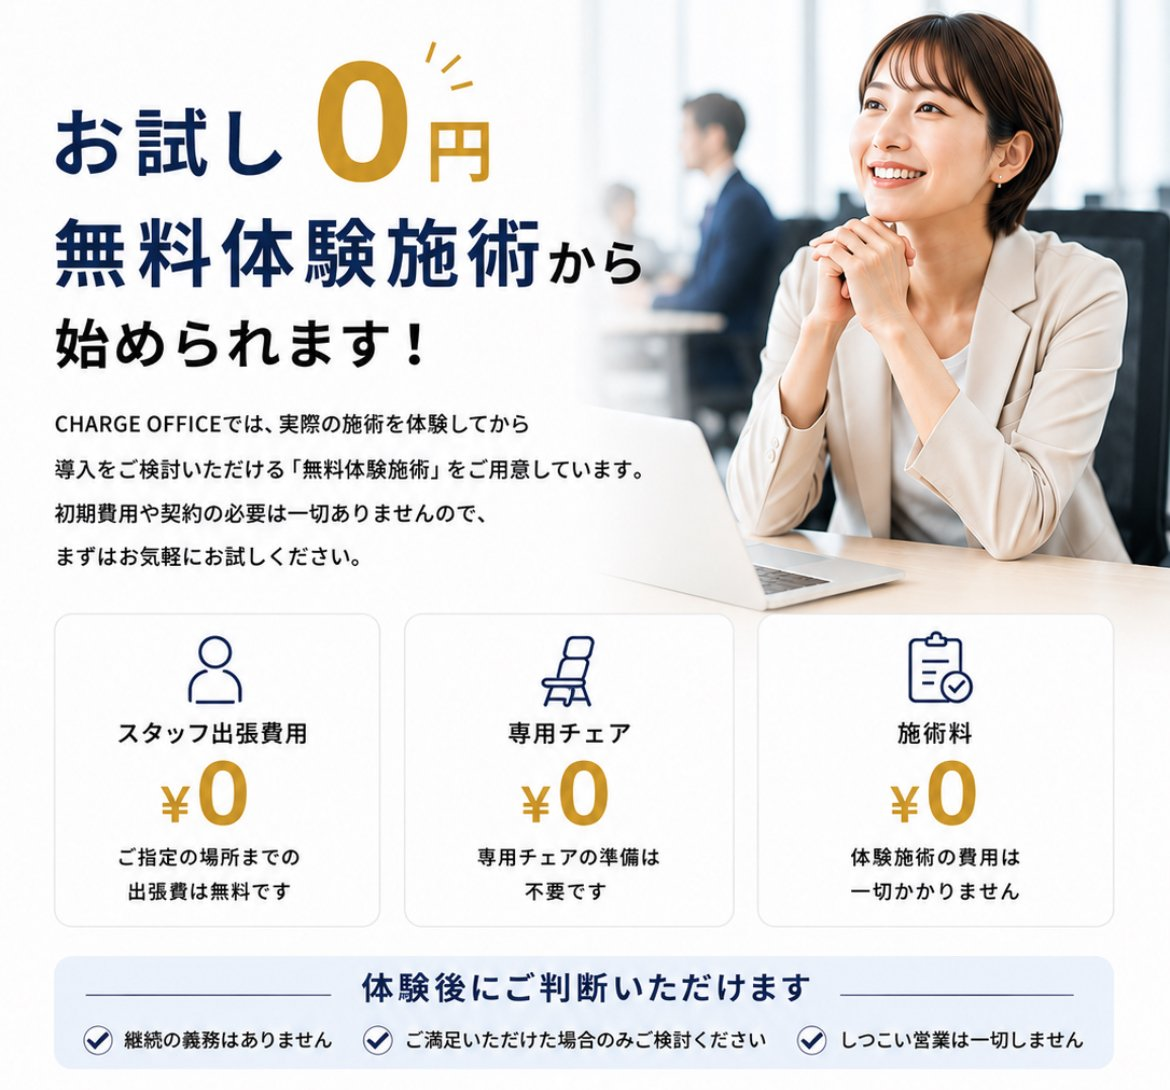
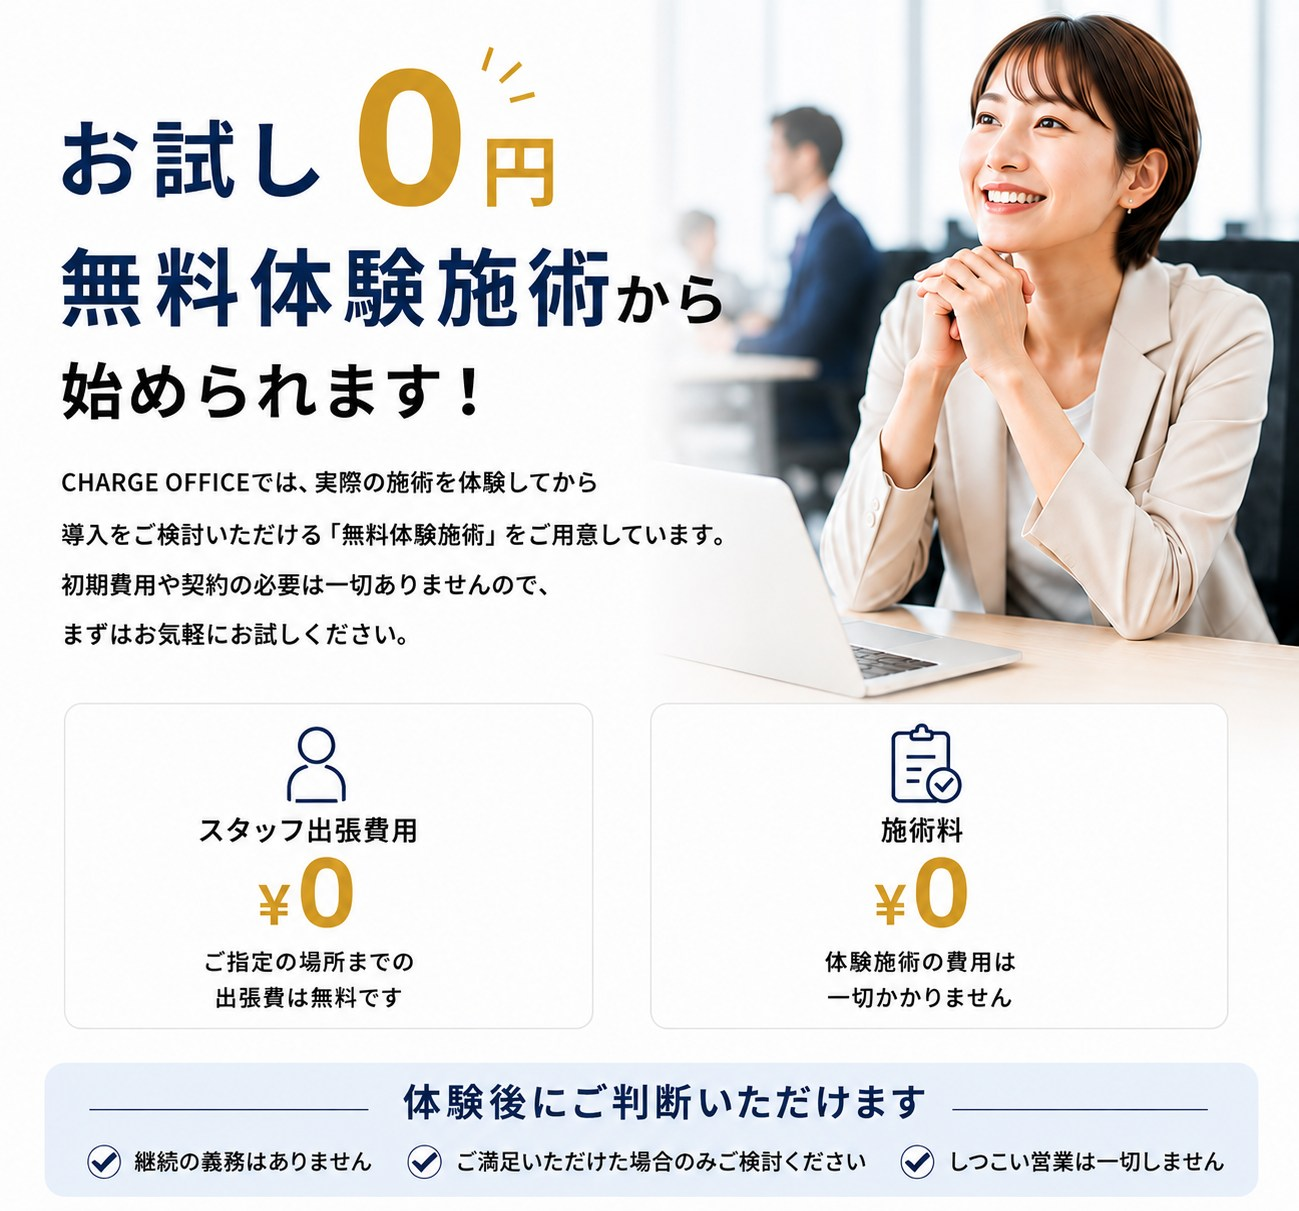
CHARGE OFFICE LP: 画像差し替えとセクション整理を反映
料金・サポート削除、FAQ整理、導入事例を玉子屋に更新、ギャラリー・訴求画像を差し替え。

diff --git a/.company/jutaku/clients/charge-office-lp/index.html b/.company/jutaku/clients/charge-office-lp/index.html
@@ -239,8 +239,8 @@
         <div class="gallery-grid">
           <img class="gallery-photo" src="images/gallery-1.jpg" alt="頭部の施術を受ける様子" width="1537" height="1023" loading="lazy">
           <img class="gallery-photo" src="images/gallery-2.jpg" alt="首・肩の施術を受ける様子" width="1537" height="1023" loading="lazy">
-          <img class="gallery-photo gallery-photo--foot" src="images/gallery-3.jpg" alt="ふくらはぎ・足裏の施術を受ける様子" width="1200" height="800" loading="lazy">
-          <img class="gallery-photo" src="images/gallery-4.jpg" alt="施術前のカウンセリングの様子" width="1537" height="1023" loading="lazy">
+          <img class="gallery-photo gallery-photo--foot" src="images/gallery-3.jpg?v=20260805" alt="ふくらはぎ・足裏の施術を受ける様子" width="1536" height="1024" loading="lazy">
+          <img class="gallery-photo" src="images/gallery-4.jpg?v=20260805b" alt="施術前のカウンセリングの様子" width="1280" height="900" loading="lazy">
         </div>
       </div>
     </section>
@@ -295,136 +295,7 @@
     </section>
 
     <section class="section bg-white trial-promo" aria-label="お試し0円 無料体験施術から始められます">
-      <img class="trial-promo__image" src="images/trial-promo.jpg" alt="お試し0円 無料体験施術から始められます。CHARGE OFFICEでは実際の施術を体験してから導入をご検討いただける無料体験施術をご用意しています。初期費用や契約の必要は一切ありません。スタッフ出張費用0円、専用チェア0円、施術料0円。体験後にご判断いただけます：継続の義務はありません、ご満足いただけた場合のみ検討ください、しつこい営業は一切しません。" width="1170" height="1090">
-    </section>
-
-    <section class="section bg-alt" id="pricing" aria-labelledby="pricing-title">
-      <div class="container">
-        <p class="section-label">PRICING</p>
-        <h2 class="section-title" id="pricing-title">料金</h2>
-        <p class="section-lead">プランは複数用意せず、単価×時間の従量制です。担当者が社内で説明しやすいよう、総額例も併記しています。</p>
-
-        <div class="price-main">
-          <span class="price-main__badge">基本プラン</span>
-          <div class="price-main__rate">
-            <span class="price-main__unit">1時間</span>
-            <span class="price-main__amount">11,000円</span>
-            <span class="price-main__tax">（税込）</span>
-          </div>
-          <p class="price-main__min">＼ 最低3時間からご契約いただけます ／</p>
-
-          <div class="price-feats">
-            <div class="price-feat">
-              <div class="price-feat__icon" aria-hidden="true">
-                <svg width="28" height="28" viewBox="0 0 24 24" fill="none" stroke="currentColor" stroke-width="1.6" stroke-linecap="round" stroke-linejoin="round">
-                  <circle cx="12" cy="8" r="3.5"/>
-                  <path d="M5 19c0-3.5 3-6 7-6s7 2.5 7 6"/>
-                </svg>
-              </div>
-              <div class="price-feat__body">
-                <p class="price-feat__top">1時間で</p>
-                <p class="price-feat__mid"><strong>5名</strong>施術可能</p>
-                <p class="price-feat__bot">おひとり約10分の施術時間</p>
-              </div>
-            </div>
-            <div class="price-feat">
-              <div class="price-feat__icon" aria-hidden="true">
-                <svg width="28" height="28" viewBox="0 0 24 24" fill="none" stroke="currentColor" stroke-width="1.6" stroke-linecap="round" stroke-linejoin="round">
-                  <rect x="4" y="5" width="16" height="16" rx="2"/>
-                  <path d="M8 3v4M16 3v4M4 11h16"/>
-                </svg>
-              </div>
-              <div class="price-feat__body">
-                <p class="price-feat__top">3時間で</p>
-                <p class="price-feat__mid"><strong>15名</strong>施術可能</p>
-                <p class="price-feat__bot">スタッフ1名の派遣につき最低3時間から</p>
-              </div>
-            </div>
-            <div class="price-feat">
-              <div class="price-feat__icon" aria-hidden="true">
-                <svg width="22" height="22" viewBox="0 0 24 24" fill="none" stroke="currentColor" stroke-width="1.5" stroke-linecap="round" stroke-linejoin="round">
-                  <rect x="4" y="2" width="16" height="20" rx="2"/>
-                  <line x1="8" y1="6" x2="16" y2="6"/>
-                  <circle cx="8" cy="11" r="1"/>
-                  <circle cx="12" cy="11" r="1"/>
-                  <circle cx="16" cy="11" r="1"/>
-                  <circle cx="8" cy="15" r="1"/>
-                  <circle cx="12" cy="15" r="1"/>
-                  <circle cx="16" cy="15" r="1"/>
-                </svg>
-              </div>
-              <div class="price-feat__body">
-                <p class="price-feat__top">1人あたり</p>
-                <p class="price-feat__mid"><strong>約2,300円</strong></p>
-                <p class="price-feat__bot">ランチ会1回分のコストで、社員の身体をメンテナンス</p>
-              </div>
-            </div>
-          </div>
-        </div>
-
-        <div class="price-extras">
-          <div class="price-extra">
-            <div class="price-extra__icon" aria-hidden="true">
-              <svg width="22" height="22" viewBox="0 0 24 24" fill="none" stroke="currentColor" stroke-width="1.6" stroke-linecap="round" stroke-linejoin="round">
-                <path d="M3 17h13l3-6H8l-2 4H3z"/>
-                <circle cx="8" cy="18" r="1.5"/>
-                <circle cx="15" cy="18" r="1.5"/>
-                <path d="M5 11l2-5h6"/>
-              </svg>
-            </div>
-            <div class="price-extra__body">
-              <p class="price-extra__label">出張費</p>
-              <p class="price-extra__text">1,100円（税込） ※スタッフ一人派遣につき</p>
-            </div>
-          </div>
-          <div class="price-extra">
-            <div class="price-extra__icon" aria-hidden="true">
-              <svg width="22" height="22" viewBox="0 0 24 24" fill="none" stroke="currentColor" stroke-width="1.6" stroke-linecap="round" stroke-linejoin="round">
-                <path d="M7 20V9l5-4 5 4v11"/>
-                <path d="M10 20v-6h4v6"/>
-              </svg>
-            </div>
-            <div class="price-extra__body">
-              <p class="price-extra__label">備品について</p>
-              <p class="price-extra__text">契約時に折りたたみチェアをご購入いただきます（スタッフ1名につき1脚・買い切り。月々の費用には含まれません）</p>
-            </div>
-          </div>
-        </div>
-
-        <div class="price-example">
-          <p class="price-example__title">例）スタッフ1名・3時間・15名の場合</p>
-          <div class="price-example__lines">
-            <div><span>施術料 11,000円 × 3時間</span><span>33,000円</span></div>
-            <div><span>スタッフ出張費</span><span>1,100円</span></div>
-          </div>
-          <div class="price-example__total">
-            <span>合計</span>
-            <span>34,100円（税込）</span>
-          </div>
-          <p class="price-example__note">※別途、契約時に専用折りたたみチェアのご購入が必要です</p>
-        </div>
-
-        <div class="price-cta">
-          <a class="scta scta--trial" href="#contact-form">
-            <span class="scta__label">まずは体験してみたい方へ</span>
-            <span class="scta__main">
-              無料トライアルを申し込む
-              <svg width="8" height="13" viewBox="0 0 8 13" fill="none" stroke="currentColor" stroke-width="2" stroke-linecap="round" stroke-linejoin="round" aria-hidden="true"><path d="M1 1l5 5.5L1 12"/></svg>
-            </span>
-            <span class="scta__note">実際の施術を体験いただけます</span>
-          </a>
-          <a class="scta scta--docs" href="#contact-form">
-            <span class="scta__label">詳しい資料を見たい方へ</span>
-            <span class="scta__main">
-              資料請求する
-              <svg width="8" height="13" viewBox="0 0 8 13" fill="none" stroke="currentColor" stroke-width="2" stroke-linecap="round" stroke-linejoin="round" aria-hidden="true"><path d="M1 1l5 5.5L1 12"/></svg>
-            </span>
-            <span class="scta__note">サービス内容や導入事例をお送りします</span>
-          </a>
-        </div>
-
-        <p class="price-tax-note">※表示料金はすべて税込価格です。</p>
-      </div>
+      <img class="trial-promo__image" src="images/trial-promo.jpg?v=20260805c" alt="お試し0円 無料体験施術から始められます。CHARGE OFFICEでは実際の施術を体験してから導入をご検討いただける無料体験施術をご用意しています。初期費用や契約の必要は一切ありません。スタッフ出張費用0円、施術料0円。体験後にご判断いただけます：継続の義務はありません、ご満足いただけた場合のみご検討ください、しつこい営業は一切しません。" width="1299" height="1211">
     </section>
 
     <!-- 導入後の変化（タイムライン4段 + 期待できる効果5枚）
@@ -586,32 +457,23 @@
           <p class="cases__lead">さまざまな業種・規模の企業様にご導入いただき、<br class="cases__br">従業員の健康増進と生産性向上に貢献しています。</p>
         </div>
 
-        <div class="cases-logos" role="list" aria-label="導入企業ロゴ一覧">
-          <div class="cases-logos__track">
-            <div class="cases-logo" role="listitem"><span class="cases-logo__mark">A</span><span class="cases-logo__name">導入企業A</span></div>
-            <div class="cases-logo" role="listitem"><span class="cases-logo__mark">B</span><span class="cases-logo__name">導入企業B</span></div>
-            <div class="cases-logo" role="listitem"><span class="cases-logo__mark">C</span><span class="cases-logo__name">導入企業C</span></div>
-            <div class="cases-logo cases-logo--more" role="listitem"><span class="cases-logo__name">他多数</span></div>
-          </div>
-        </div>
-
         <article class="case-card">
           <header class="case-card__meta">
-            <p class="case-card__badge"><span>CASE</span><strong>01</strong></p>
+            <p class="case-card__badge"><span>CASE</span></p>
             <div class="case-card__company">
-              <div class="case-card__brand" aria-hidden="true">
-                <span class="case-card__brand-mark">CO</span>
+              <div class="case-card__brand">
+                <img class="case-card__brand-logo" src="images/case-tamagoya.png?v=20260805" alt="おべんとうの玉子屋" width="250" height="90">
               </div>
               <div class="case-card__company-text">
-                <h3 class="case-card__name">導入企業（掲載準備中）</h3>
+                <h3 class="case-card__name">おべんとうの玉子屋</h3>
                 <p class="case-card__attrs">
                   <span>
                     <svg width="14" height="14" viewBox="0 0 24 24" fill="none" stroke="currentColor" stroke-width="1.8" stroke-linecap="round" stroke-linejoin="round" aria-hidden="true"><path d="M4 20V9l8-5 8 5v11"/><path d="M9 20v-6h6v6"/></svg>
-                    IT・インターネット
+                    飲食サービス業
                   </span>
                   <span>
                     <svg width="14" height="14" viewBox="0 0 24 24" fill="none" stroke="currentColor" stroke-width="1.8" stroke-linecap="round" stroke-linejoin="round" aria-hidden="true"><circle cx="9" cy="8" r="3"/><path d="M3.5 18c0-2.8 2.5-5 5.5-5s5.5 2.2 5.5 5"/><circle cx="17" cy="9" r="2.2"/><path d="M14.5 18c.3-1.6 1.5-2.9 3.2-3.4"/></svg>
-                    従業員数80名
+                    従業員数600名
                   </span>
                 </p>
               </div>
@@ -619,7 +481,7 @@
           </header>
 
           <div class="case-card__media">
-            <img src="images/about.jpg" alt="オフィスでの出張整体の様子" width="1200" height="675" loading="lazy">
+            <img src="images/case-tamagoya-media.jpg?v=20260805" alt="おべんとうの玉子屋での出張整体の様子" width="1417" height="1110" loading="lazy">
             <p class="case-card__catch">社員から「また来てほしい」という声が多く、<br><strong>福利厚生として定着</strong>しています。</p>
           </div>
 
@@ -723,7 +585,6 @@
           </ul>
         </div>
 
-        <p class="cases__note">※掲載許可をいただいた企業様のみ掲載しています。</p>
       </div>
     </section>
 
@@ -841,35 +702,6 @@
             <summary>健康経営の取り組みとして使えますか？</summary>
             <div class="faq-item__body">はい。健康経営の取り組みとしてご活用いただけます。詳細は資料にてご案内しています。</div>
           </details>
-          <details class="faq-item">
-            <summary>料金の内訳を教えてください</summary>
-            <div class="faq-item__body">施術料は11,000円／1時間（税込）。スタッフ1名の派遣につき最低3時間からで、スタッフ出張費1,100円（税込）が別途かかります。例）スタッフ1名・3時間・15名の場合、合計34,100円（税込）。別途、契約時に専用折りたたみチェアのご購入が必要です（スタッフ1名につき1脚・買い切り。月々の費用には含まれません）。</div>
-          </details>
-          <details class="faq-item">
-            <summary>施術者の資格について教えてください</summary>
-            <div class="faq-item__body">国家資格保有者が在籍しています。施術者は研修をクリアしたスタッフが訪問します。</div>
-          </details>
-        </div>
-      </div>
-    </section>
-
-    <section class="section bg-navy" id="support" aria-labelledby="support-title">
-      <div class="container">
-        <p class="section-label">SUPPORT</p>
-        <h2 class="section-title" id="support-title">安心のサポート体制</h2>
-        <div class="support-grid">
-          <article class="support-card">
-            <h3 class="support-card__title">専任担当</h3>
-            <p class="support-card__text">導入前後を通じて、専任の担当者が貴社の状況に合わせてご案内します。</p>
-          </article>
-          <article class="support-card">
-            <h3 class="support-card__title">レポート</h3>
-            <p class="support-card__text">実施状況をレポートとして共有し、社内説明や稟議の材料としてご活用いただけます。</p>
-          </article>
-          <article class="support-card">
-            <h3 class="support-card__title">研修</h3>
-            <p class="support-card__text">施術者は研修をクリアしたスタッフが訪問します。</p>
-          </article>
         </div>
       </div>
     </section>

diff --git a/.company/jutaku/clients/charge-office-lp/styles.css b/.company/jutaku/clients/charge-office-lp/styles.css
@@ -1284,19 +1284,28 @@ p { margin: 0; }
 }
 .case-card__brand {
   flex: 0 0 auto;
-  width: 44px;
-  height: 44px;
+  width: 96px;
+  height: 56px;
   border-radius: 10px;
-  background: #F3F6FB;
+  background: #fff;
   border: 1px solid var(--c-line);
   display: grid;
   place-items: center;
+  overflow: hidden;
+  padding: 4px;
+  box-sizing: border-box;
 }
 .case-card__brand-mark {
   font-family: var(--f-head);
   font-size: 13px;
   font-weight: 900;
   color: var(--c-navy);
+}
+.case-card__brand-logo {
+  display: block;
+  width: 100%;
+  height: 100%;
+  object-fit: contain;
 }
 .case-card__name {
   margin: 0 0 6px;
